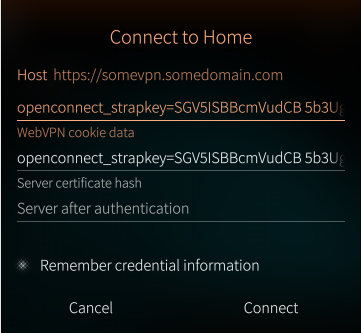
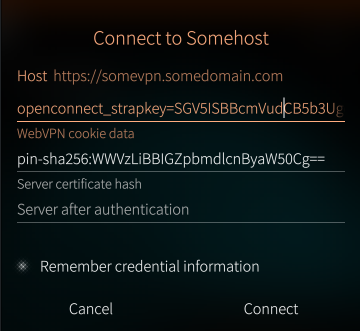
Corrected the text after I found what was wrong

diff --git a/index.html b/index.html
@@ -220,15 +220,17 @@ COOKIE='openconnect_strapkey=SGV5ISBBcmVudCB5b3Ugc25lYWt5IGJhc3RhcmQ/IEhlbGxvIHR
 HOST='147.237.7.27'
 CONNECT_URL='https://somevpn.somedomain.com/'
 FINGERPRINT='pin-sha256:WWVzLiBBIGZpbmdlcnByaW50Cg=='</code>
-            <p>And it worked once, but I couldn't reproduce it again.</p>
+            <p>And it worked! Just pay attention when copy-pasting text from the fingerterm, as it
+                will add spaces where the text was broken by the side of the screen.
+            </p>
             <div class="row">
                 <div class="figure">
-                    <img src="2025-07-03/entercookie.png" width="361px" height="333px"
+                    <img src="2025-07-03/entercookie.png" width="360px" height="331px"
                         alt="SailfishOS OpenConnect configuration with cookie and certificate fingerprint" />
                     <div class="label">SailfishOS OpenConnect configuration</div>
                 </div>
             </div>
-            <p>I'll stay with the plain openconnect for now.</p>
+            <p>Next time I'll try automate cookie update.</p>
         </article>
 
         <article class="entry">
